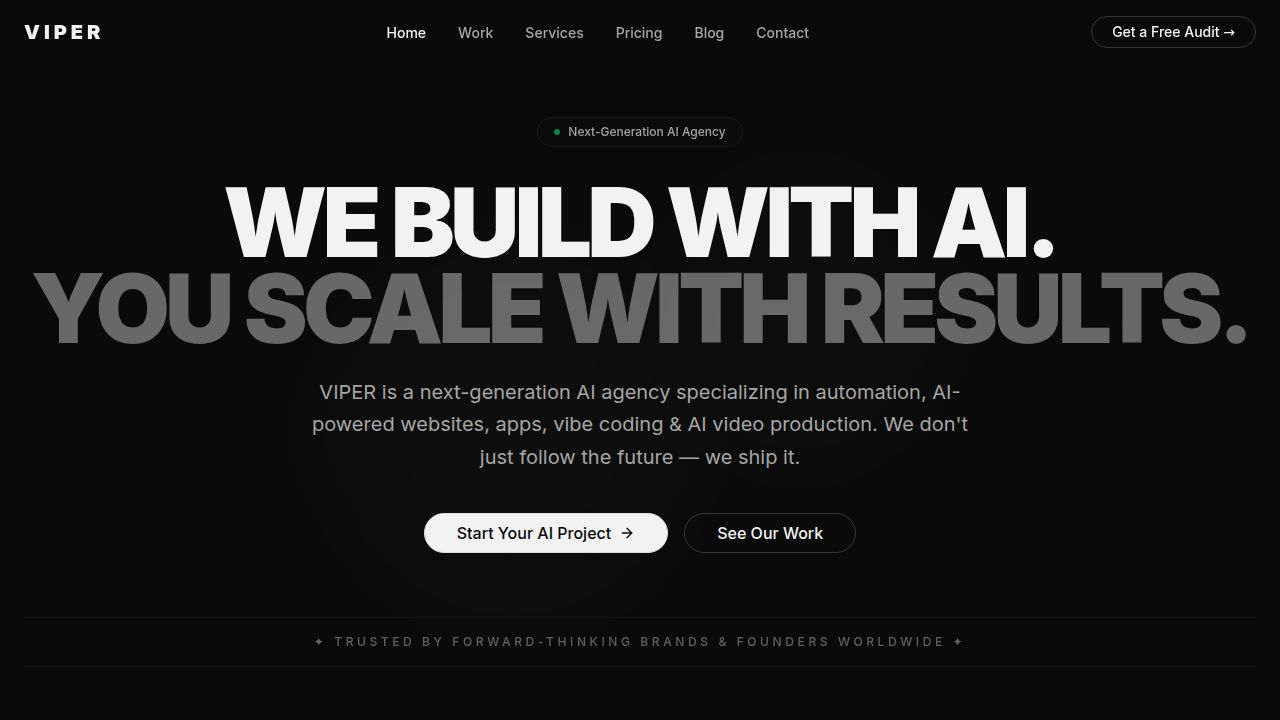
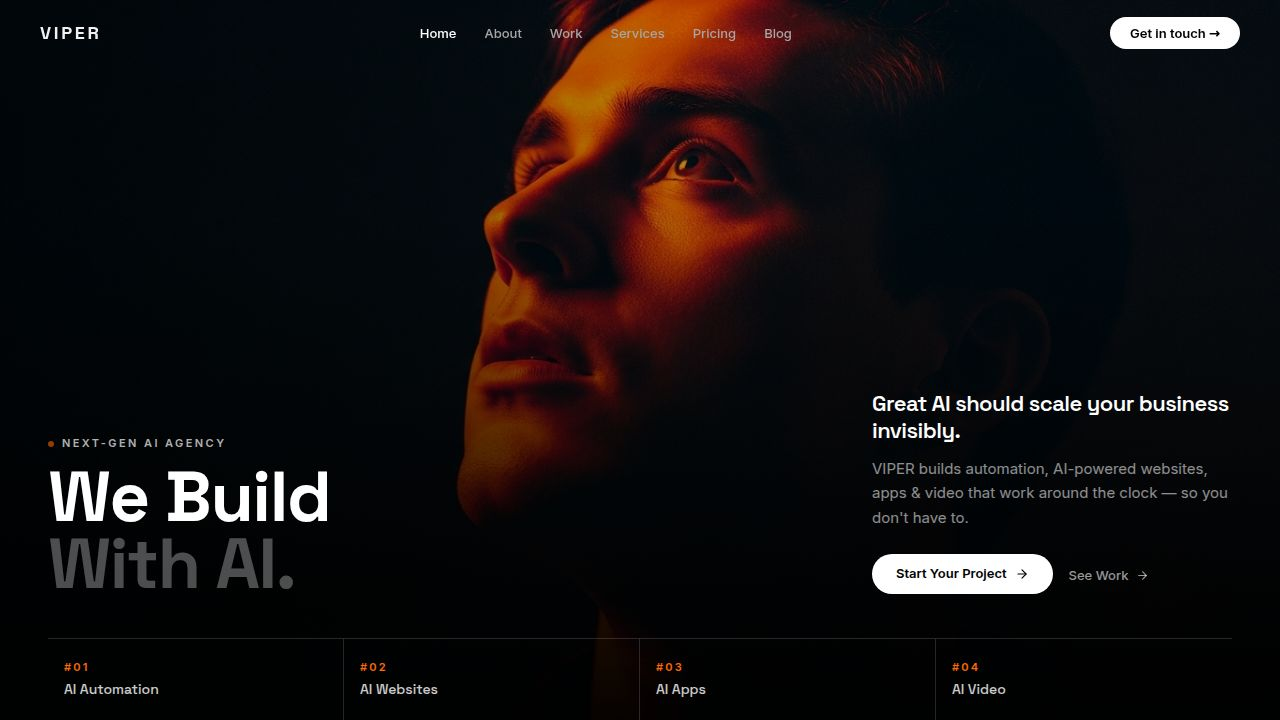
Fix broken image import on About page to resolve white screen
Corrected a broken image import in `artifacts/viper-site/src/pages/about.tsx` by replacing the reference with an existing asset, resolving the white screen issue.

Replit-Commit-Author: Agent
Replit-Commit-Session-Id: 61705584-6987-4b55-a527-95c9aa033e0d
Replit-Commit-Checkpoint-Type: full_checkpoint
Replit-Commit-Event-Id: 90951d81-14ed-4a12-8c38-fc7399ba21a8
Replit-Commit-Screenshot-Url: https://storage.googleapis.com/screenshot-production-us-central1/f24598aa-4b86-4c85-bd7b-4d4cdcbb188b/61705584-6987-4b55-a527-95c9aa033e0d/zWO3lhF
Replit-Helium-Checkpoint-Created: true

diff --git a/artifacts/viper-site/src/pages/about.tsx b/artifacts/viper-site/src/pages/about.tsx
@@ -6,7 +6,7 @@ import { ArrowRight, Zap, Globe, Smartphone, Video, Clapperboard, BrainCircuit }
 import { Accordion, AccordionContent, AccordionItem, AccordionTrigger } from "@/components/ui/accordion";
 import profilePhoto from "@assets/Gemini_Generated_Image_rk6t1wrk6t1wrk6t_1777802311237.png";
 import womenPhoto from "@assets/Screenshot_2026-05-03_111343_1777803239920.png";
-import menPhoto from "@assets/Screenshot_2026-05-03_111358_1777803241015.png";
+import menPhoto from "@assets/Gemini_Generated_Image_rk6t1wrk6t1wrk6t_1777802311237.png";
 
 const skills = [
   { icon: <Zap size={16} />, label: "AI Automation" },